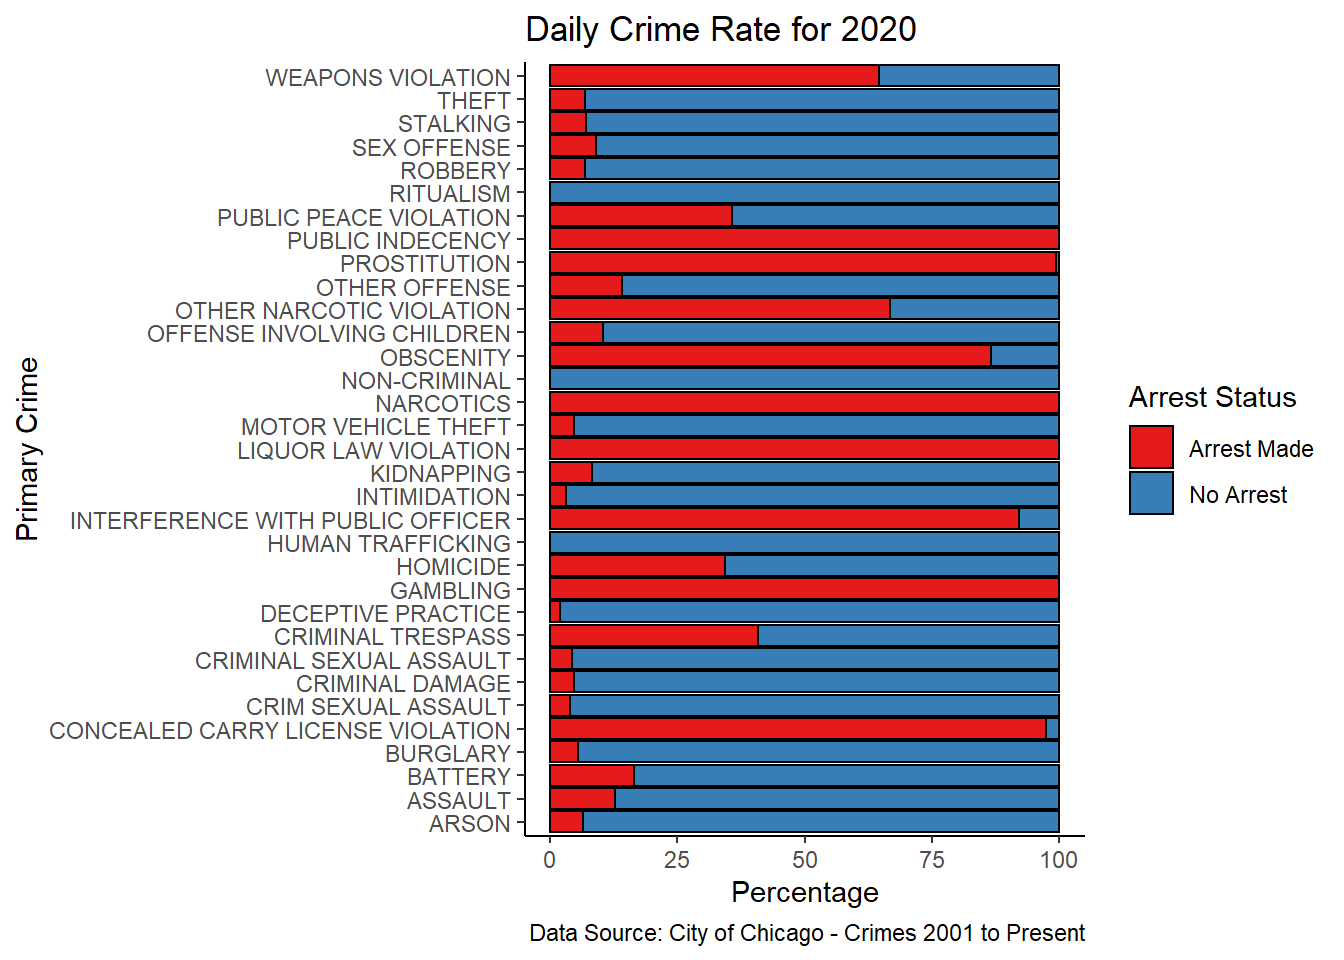
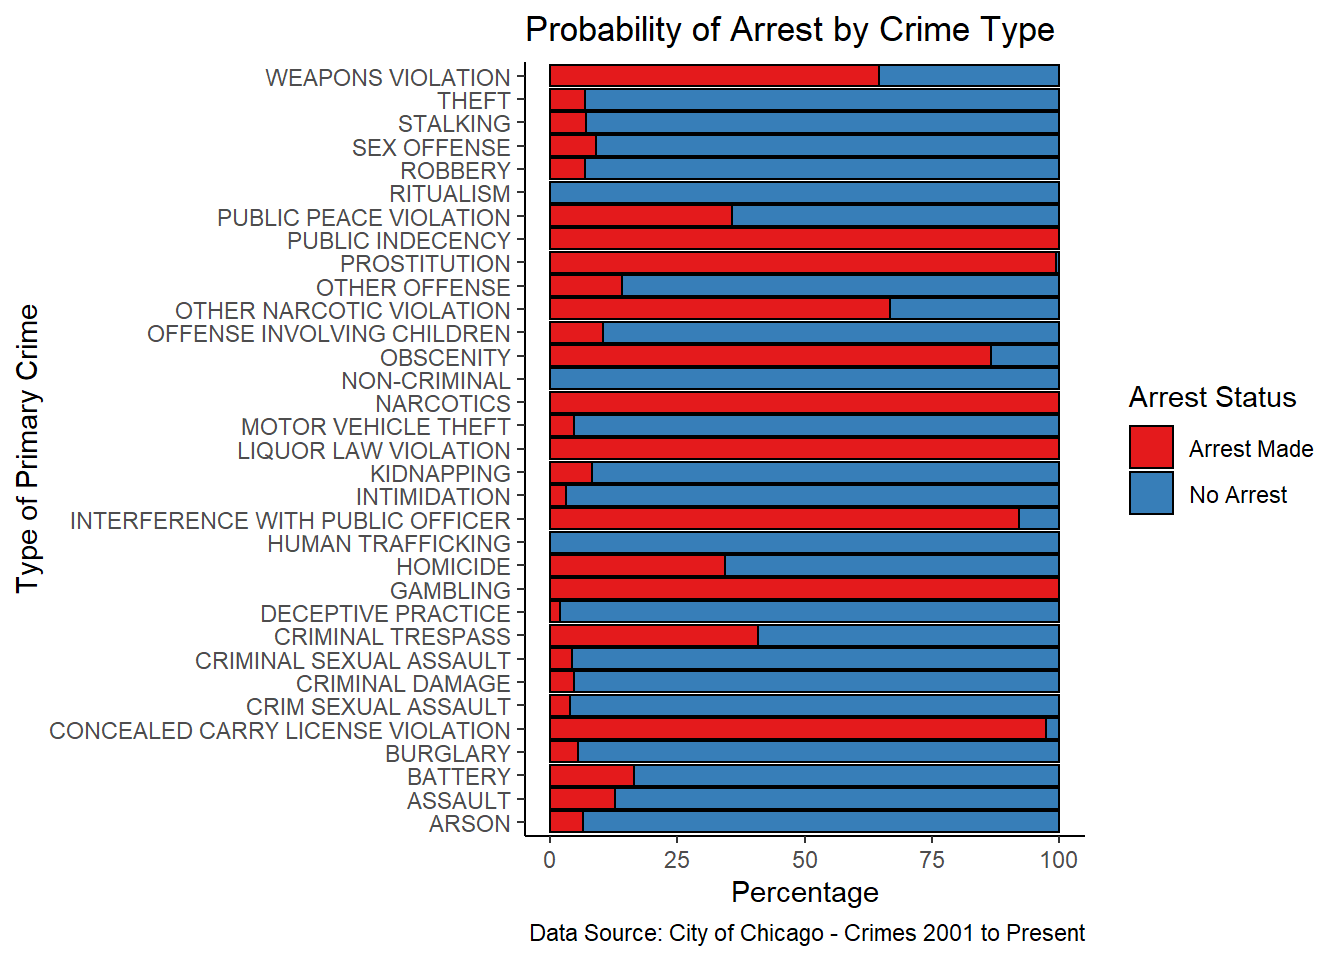
A5 - adding more text.

Changed region(s): [[0.4062, 0.0, 0.7812, 0.0625], [0.0, 0.3125, 0.0312, 0.625]]

diff --git a/public/2021/06/26/assignment-05-exploratory-data-analysis-v2/index.html b/public/2021/06/26/assignment-05-exploratory-data-analysis-v2/index.html
@@ -22,11 +22,6 @@
 
 
 
-
-<link href='//cdnjs.cloudflare.com/ajax/libs/highlight.js/9.12.0/styles/github.min.css' rel='stylesheet' type='text/css' />
-
-
-
 <link rel="stylesheet" href="/css/fonts.css" media="all">
 <link rel="stylesheet" href="/css/main.css" media="all">
 
@@ -62,7 +57,7 @@
 
   <article class="article">
     
-    <span class="article-duration">2 min read</span>
+    <span class="article-duration">3 min read</span>
     
 
     <h1 class="article-title">Assignment 05 - Exploratory Data Analysis - V2</h1>
@@ -84,57 +79,46 @@
 <p>The dataset used for this assignment was the City of Chicago Crime Statistics data. To reduce the file size, the data is reflective of the year 2019 and the year 2020. This data is taken from the Chicago Police Departments publicly available data.</p>
 <div id="q1---what-are-the-most-common-types-of-crimes" class="section level3">
 <h3>Q1 - What are the most common types of crimes?</h3>
+<p>The top 5 most common types of reported crime are:
+1) Battery – 41472 reports in 2020
+2) Theft – 41186 reports in 2020
+3) Criminal Damage – 24857 reports in 2020
+4) Assault – 18243 reports in 2020
+5) Deceptive Practice – 17670 reports in 2020</p>
+<p>These are the primary types of crime. For each type of crime there is an associated specific description of the crime to further breakdown the data.</p>
 <p><img src="/2021/06/26/assignment-05-exploratory-data-analysis-v2/index_files/figure-html/unnamed-chunk-3-1.png" width="672" /></p>
 </div>
 <div id="q2---what-are-the-most-frequent-subtypes-of-the-top-5-crime-types" class="section level3">
 <h3>Q2 - What are the most frequent subtypes of the top 5 crime types?</h3>
+<p>The next chart shows the 10 most common descriptions of the top 5 most common crime types.</p>
+<p>Domestic Battery is the most common description of all types. Theft under $500 is the second most common. There is only one occurrence of Deceptive Practice within the top 5 main types of crime.</p>
 <p><img src="/2021/06/26/assignment-05-exploratory-data-analysis-v2/index_files/figure-html/unnamed-chunk-4-1.png" width="672" /></p>
 </div>
 </div>
 <div id="q3---when-are-more-crimes-reported-during-the-year" class="section level2">
 <h2>Q3 - When are more crimes reported during the year?</h2>
+<p>Based on the chart below, crime reports are at their lowest during the spring and during the late fall. For 2020, crime reports spiked during late May. This may be related to the COVID lockdowns, as the spike is significantly higher than every other day. COVID may also be the cause of the decreased crime rate during the early spring. There is also a spike at the start of the year. This new year spike may be related to New Year’s celebrations.</p>
+<p>The months with the most crime reports are January, February, July, August, and October.</p>
+<p>Looking at the Daily Crime Rate, there are three noticeable spikes: early January, late May, and early-mid August.</p>
+<p>An interesting observation is that, approaching the holidays, crime reports are begin to decrease, and late December, the crime rate decreases rapidly for a brief period.</p>
 <p><img src="/2021/06/26/assignment-05-exploratory-data-analysis-v2/index_files/figure-html/unnamed-chunk-5-1.png" width="672" /></p>
+<p>Daily Crime Rate</p>
+<p><img src="/2021/06/26/assignment-05-exploratory-data-analysis-v2/index_files/figure-html/unnamed-chunk-6-1.png" width="672" /></p>
 </div>
 <div id="q4---which-month-had-the-most-crime-in-2020" class="section level2">
 <h2>Q4 - Which month had the most crime in 2020?</h2>
-<p><img src="/2021/06/26/assignment-05-exploratory-data-analysis-v2/index_files/figure-html/unnamed-chunk-6-1.png" width="672" /></p>
-<p>Daily Crime Rate</p>
 <p><img src="/2021/06/26/assignment-05-exploratory-data-analysis-v2/index_files/figure-html/unnamed-chunk-7-1.png" width="672" /></p>
 <p>Which crimes have the highest arrest rate?</p>
-<pre class="r"><code>crime_arrest &lt;- crime_post %&gt;%
-  group_by(primary_type) %&gt;%
-  count(primary_type, arrest) %&gt;%
-  mutate(arrest_count = n,
-         arrest = case_when(arrest == &quot;1&quot; ~ &quot;Arrest Made&quot;,
-                            arrest == &quot;0&quot; ~ &quot;No Arrest&quot;)) %&gt;%
-  summarise(arrest_rate = (arrest_count/sum(arrest_count)*100),
-            arrest = arrest)</code></pre>
-<pre><code>## `summarise()` has grouped output by &#39;primary_type&#39;. You can override using the `.groups` argument.</code></pre>
-<pre class="r"><code>head(crime_arrest)</code></pre>
-<pre><code>## # A tibble: 6 x 3
-## # Groups:   primary_type [3]
-##   primary_type arrest_rate arrest     
-##   &lt;chr&gt;              &lt;dbl&gt; &lt;chr&gt;      
-## 1 ARSON              93.5  No Arrest  
-## 2 ARSON               6.51 Arrest Made
-## 3 ASSAULT            87.3  No Arrest  
-## 4 ASSAULT            12.7  Arrest Made
-## 5 BATTERY            83.5  No Arrest  
-## 6 BATTERY            16.5  Arrest Made</code></pre>
-<pre class="r"><code>ggplot(crime_arrest, aes(x= arrest_rate, y = primary_type, fill = arrest ))+
-  geom_col(color = &quot;black&quot;, position = position_stack(reverse = TRUE)) +
-  gghighlight() +
-  labs(
-        title = (&quot;Daily Crime Rate for 2020&quot;),
-        x = &quot;Percentage&quot;, y = &quot;Primary Crime&quot;,
-        caption = &quot;Data Source: City of Chicago - Crimes 2001 to Present&quot;,
-        fill = &quot;Arrest Status&quot;
-        ) +
-  theme_classic() + 
-  scale_fill_brewer(palette = &quot;Set1&quot;)</code></pre>
 <p><img src="/2021/06/26/assignment-05-exploratory-data-analysis-v2/index_files/figure-html/unnamed-chunk-8-1.png" width="672" /></p>
-<pre class="r"><code>  #scale_colour_viridis_b()</code></pre>
-<p>Which wards are the best and worst to live in, based on crime rate?</p>
+<p>The chart above shows that for most crimes, an arrest is very probable or unlikely. The arrest rate is either high or low for most crimes. Most of the crimes have a low arrest rate, less than 25%.</p>
+</div>
+<div id="which-are-the-best-and-worst-wards-to-live-in-based-on-crime-rate" class="section level2">
+<h2>Which are the best and worst wards to live in, based on crime rate?</h2>
+<p>The two charts below are Number of Crimes by Ward and Probabilities of Arrest by Ward. The wards with the most crime reports are Ward 28, Ward 27, and Ward 24. However, these wards also have high arrests.</p>
+<p>Ward 37 is one of the best wards to live in based on crime reports. This ward has a low number of crimes reported but a higher probability of an arrest being made.</p>
+<p>Ward 27 is likely the worst ward to live in based on crime reports. This ward has the second highest number of crimes being reported with a slightly lower than expected probability of an arrest being made.</p>
+<p>These best/worst ward assumptions are based on the final 2 visuals. There is a trend in the shape of both charts. The higher the number of reported crimes, the higher the probability of an arrest being made. The two wards, 37 and 27, this trend is inverted. For Ward 37, it is inverted in a positive way. For Ward 27, it is slightly inverted in a negative way.</p>
+<p><img src="/2021/06/26/assignment-05-exploratory-data-analysis-v2/index_files/figure-html/unnamed-chunk-9-1.png" width="672" /><img src="/2021/06/26/assignment-05-exploratory-data-analysis-v2/index_files/figure-html/unnamed-chunk-9-2.png" width="672" /></p>
 </div>
 </div>
 
@@ -160,19 +144,10 @@
     </div>
     
 
-
-
-<script src="//cdnjs.cloudflare.com/ajax/libs/highlight.js/9.12.0/highlight.min.js"></script>
-
-
-
-<script src="//cdnjs.cloudflare.com/ajax/libs/highlight.js/9.12.0/languages/r.min.js"></script>
-<script src="//cdnjs.cloudflare.com/ajax/libs/highlight.js/9.12.0/languages/yaml.min.js"></script>
-<script>hljs.configure({languages: []}); hljs.initHighlightingOnLoad();</script>
-
-
-
     
+<script src="/js/math-code.js"></script>
+<script async src="//cdnjs.cloudflare.com/ajax/libs/mathjax/2.7.5/MathJax.js?config=TeX-MML-AM_CHTML"></script>
+
 
     
   </body>
